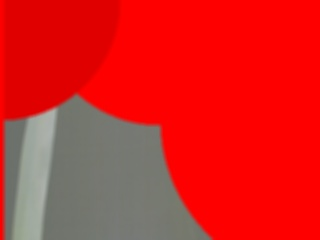
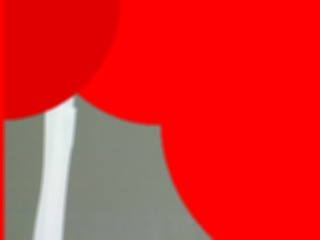
added ignore perpendicular lines after hough transform

Changed region(s): [[0.0312, 0.3792, 0.25, 1.0], [0.5312, 0.9042, 0.5938, 0.9625], [0.625, 0.9917, 0.6562, 1.0]]

diff --git a/src/ImageProcessing.py b/src/ImageProcessing.py
@@ -6,6 +6,7 @@ import picamera.array
 import time
 from sklearn.cluster import KMeans
 
+
 class ImageProcessing:
 
 	lines = []
@@ -147,8 +148,8 @@ class ImageProcessing:
 
 
 		elif self.left_lines is None and self.right_lines is None:
-			self.left_lines= np.array([[[1,np.pi*2]]])
-			self.right_lines= np.array([[[319,np.pi*2]]])
+			self.left_lines= np.array([[[1,np.pi*2+np.pi*2/36]]])
+			self.right_lines= np.array([[[319,np.pi*2-np.pi*2/36]]])
 
 		elif self.left_lines is None:
 			print("sol taraf yok")
@@ -164,17 +165,44 @@ class ImageProcessing:
 		else :
 			print("screwed")
 
+
+		left_features = []
+		left_unchosen_index = []
+		left_counter = 0
+
+		right_features= []
+		right_unchosen_index = []
+		right_counter = 0
+
 		print("left => ")
 		for i in self.left_lines:
-			self.DrawHoughLines(i[0][0],i[0][1], (255,100,100))
+			rho,theta = i[0]
+			temp = float(theta)%np.pi
+			if -0.1<temp<0.1 or temp>3.01:
+				left_unchosen_index.append(left_counter)
+				print("not drawn : rho : ", rho , ", theta :", theta)
+			else:
+				left_features.append([[rho, theta]])
+				self.DrawHoughLines(i[0][0],i[0][1], (255,100,100))
 			print(i)
+			left_counter+=1
+		
+		self.left_lines = np.array(left_features)
 		print("right=>")
 		for i in self.right_lines:
+			rho,theta = i[0]
+			temp = float(theta)%np.pi
+			if -0.1<temp<0.1 or temp>3.01:
+				right_unchosen_index.append(right_counter)
+				print("not drawn : rho : ", rho , ", theta :", theta)
+			else:
+				right_features.append([[rho, theta]])
+				self.DrawHoughLines(i[0][0],i[0][1], (100,10,200))
 			print(i)
-			self.DrawHoughLines(i[0][0],i[0][1], (100,100,255))
-		
+			right_counter+=1
 
-
+		self.right_lines = np.array(right_features)
+		print("--------------------------> ", self.right_lines)
 		self.averaged_left = np.mean(self.left_lines, axis = 0)
 		self.averaged_right = np.mean(self.right_lines, axis = 0)
 		print("************************", self.averaged_left, self.averaged_right)

diff --git a/src/PDController.py b/src/PDController.py
@@ -6,7 +6,7 @@ from simple_pid import PID
 class PDController:
 	kp = 42
 	kd = 0.5
-	speed = 90
+	speed = 30
 
 
 	def __init__(self, error, dutyCycle):
@@ -89,7 +89,7 @@ class PDController:
 		print(left_speed, right_speed)
 		self.ControlLeftSide(speed=left_speed)
 		self.ControlRightSide(speed=right_speed)
-		time.sleep(0.35)
+		time.sleep(0.3)
 		self.StopEngines()
 		
 

diff --git a/src/main.py b/src/main.py
@@ -51,8 +51,8 @@ def main(argv):
 			GPIO.cleanup()
 			return 0
 
-		except:
-			print("sıkıntı var")
+		#except:
+		#	print("sıkıntı var")
 
 	print("program sonlandi")
 	cv.waitKey()
